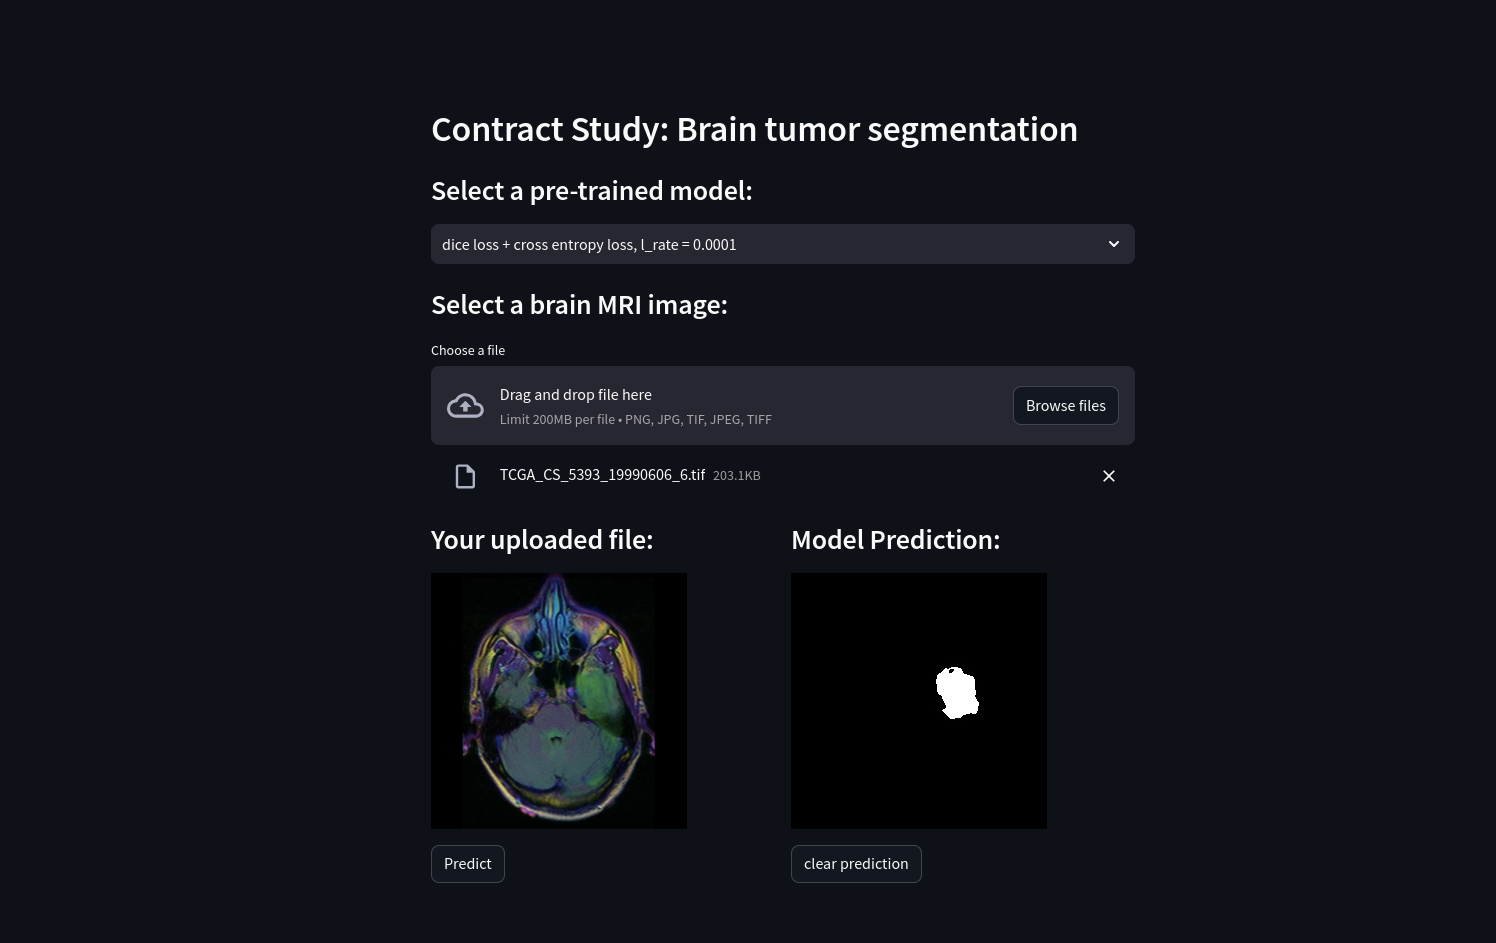
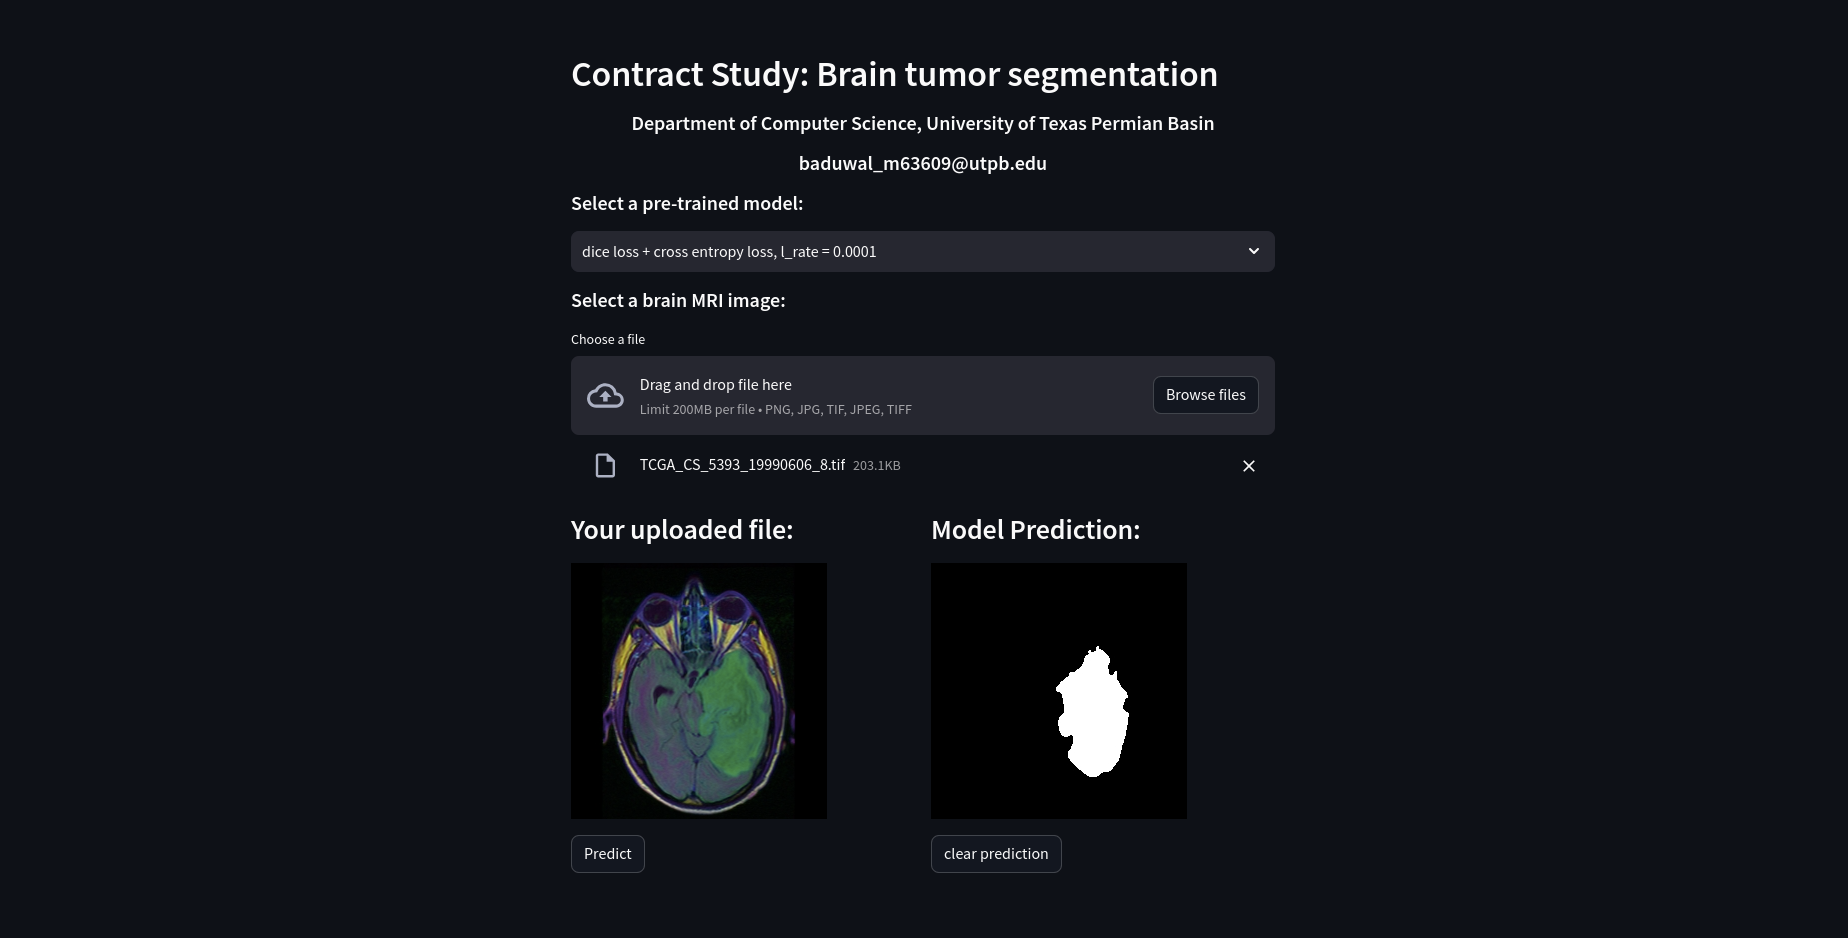
.

diff --git a/pages/learning curve.py b/pages/learning curve.py
@@ -20,23 +20,23 @@ model_dict = {model_list[0]: "pretrained1",
               model_list[3]: "pretrained4",
               model_list[4]: "pretrained5"}
 
-# show learning curves of multiple model with different learning rate
-st.subheader("Compare learning curves")
-multiple_loss = Image.open(f"{path}/accuracy_curves_multiple_loss.png")
-st.image(multiple_loss)
+# # show learning curves of multiple model with different learning rate
+# st.subheader("Compare learning curves")
+# multiple_loss = Image.open(f"{path}/accuracy_curves_multiple_loss.png")
+# st.image(multiple_loss)
 
-# display test accuracy
-df = pd.read_csv("data/data_analysis/test_accuracy.csv", index_col=False)
-st.dataframe(df, use_container_width=True)
+# # display test accuracy
+# df = pd.read_csv("data/data_analysis/test_accuracy.csv", index_col=False)
+# st.dataframe(df, use_container_width=True)
 
-# show details of selected model
-st.subheader("See details:")
-option = st.selectbox("select a model",
-                      model_list,
-                      label_visibility='collapsed')
-chosen_model = model_dict[option]
-accuracy_curve = Image.open(f"{path}/{chosen_model}_accuracy_curve.png")
-train_valid_dices = Image.open(f"{path}/{chosen_model}_train_valid_dice.png")
+# # show details of selected model
+# st.subheader("See details:")
+# option = st.selectbox("select a model",
+#                       model_list,
+#                       label_visibility='collapsed')
+# chosen_model = model_dict[option]
+# accuracy_curve = Image.open(f"{path}/{chosen_model}_accuracy_curve.png")
+# train_valid_dices = Image.open(f"{path}/{chosen_model}_train_valid_dice.png")
 
-st.image(accuracy_curve)
-st.image(train_valid_dices)
+# st.image(accuracy_curve)
+# st.image(train_valid_dices)

diff --git a/pages/prediction.py b/pages/prediction.py
@@ -29,7 +29,10 @@ def load_model(model_name: str):
 
 # model option
 st.header("Contract Study: Brain tumor segmentation")
-st.subheader("Select a pre-trained model:")
+st.markdown("<h5 style='text-align: center;'>Department of Computer Science, University of Texas Permian Basin</h5>", unsafe_allow_html=True)
+st.markdown("<h5 style='text-align: center;'>baduwal_m63609@utpb.edu</h5>", unsafe_allow_html=True)
+
+st.markdown("<h5 style='text-align: left;'>Select a pre-trained model:</h5>", unsafe_allow_html=True)
 option = st.selectbox("select a model",
                       ('dice loss + cross entropy loss, l_rate = 0.0001',
                        'dice loss, l_rate = 0.0001',
@@ -39,7 +42,7 @@ option = st.selectbox("select a model",
                       label_visibility='collapsed')
 
 # file uploader
-st.subheader("Select a brain MRI image:")
+st.markdown("<h5 style='text-align: left;'>Select a brain MRI image:</h5>", unsafe_allow_html=True)
 uploaded_file = st.file_uploader("Choose a file", type=['png', 'jpg', 'tif'])
 
 col1, col2 = st.columns(2)

diff --git a/unet/learning_curve.py b/unet/learning_curve.py
@@ -1,8 +1,7 @@
 """
-    CS5001 Fall 2022
-    Final Project: Brain Tumor Segmentation
-    - Generating learning curves
-    Hua Wang
+    Contract Study : Brain Tumor Segmentation
+    -Training and validating a U-Net model
+    Madan Baduwal
 """
 from unet.test import *
 import pandas as pd
@@ -210,13 +209,13 @@ def plot_curves_multi_model(model_list, label_list, file_name):
                  loss_accuracy_df_mean['accuracy'],
                  label=label)
 
-    plt.title("Learning Curve")
-    plt.xlabel("per 10 training instances")
-    plt.ylabel("Dice score (mean of 10 training instances)")
-    plt.legend()
-    curve = plt.gcf()
-    plt.show()
-    curve.savefig(f"../data/data_analysis/{file_name}.png")
+    # plt.title("Learning Curve")
+    # plt.xlabel("per 10 training instances")
+    # plt.ylabel("Dice score (mean of 10 training instances)")
+    # plt.legend()
+    # curve = plt.gcf()
+    # plt.show()
+    # curve.savefig(f"../data/data_analysis/{file_name}.png")
 
 
 if __name__ == '__main__':

diff --git a/unet/test.py b/unet/test.py
@@ -1,8 +1,7 @@
 """
-    CS5001 Fall 2022
-    Final Project: Brain Tumor Segmentation
-    - Testing a pretrained model
-    Hua Wang
+    Contract Study : Brain Tumor Segmentation
+    -Training and validating a U-Net model
+    Madan Baduwal
 """
 from unet.util import *
 from unet.model import *

diff --git a/unet/test_util.py b/unet/test_util.py
@@ -1,8 +1,7 @@
 """
-    CS5001 Fall 2022
-    Final Project: Brain Tumor Segmentation
-    - Test functions in util.py
-    Hua Wang
+    Contract Study : Brain Tumor Segmentation
+    -Training and validating a U-Net model
+    Madan Baduwal
 """
 from util import *
 import unittest

diff --git a/app.py b/app.py
@@ -7,4 +7,4 @@
 import streamlit as st
 
 
-st.write("Welcome!")
+# st.write("Welcome!")
